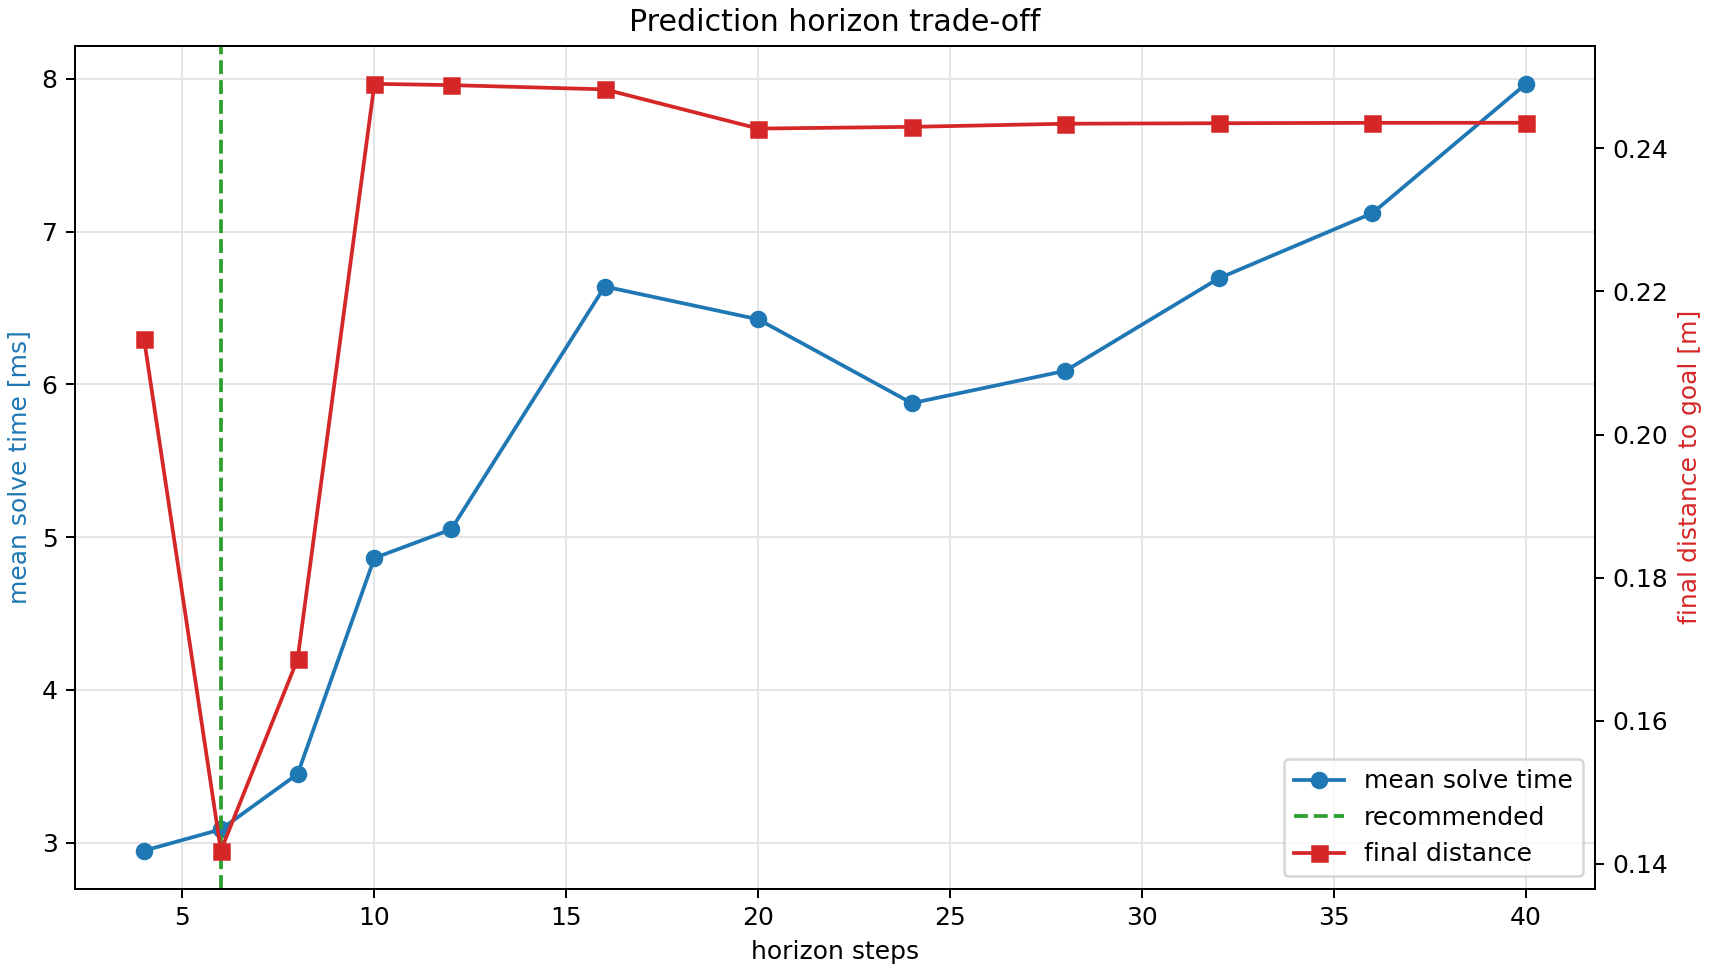
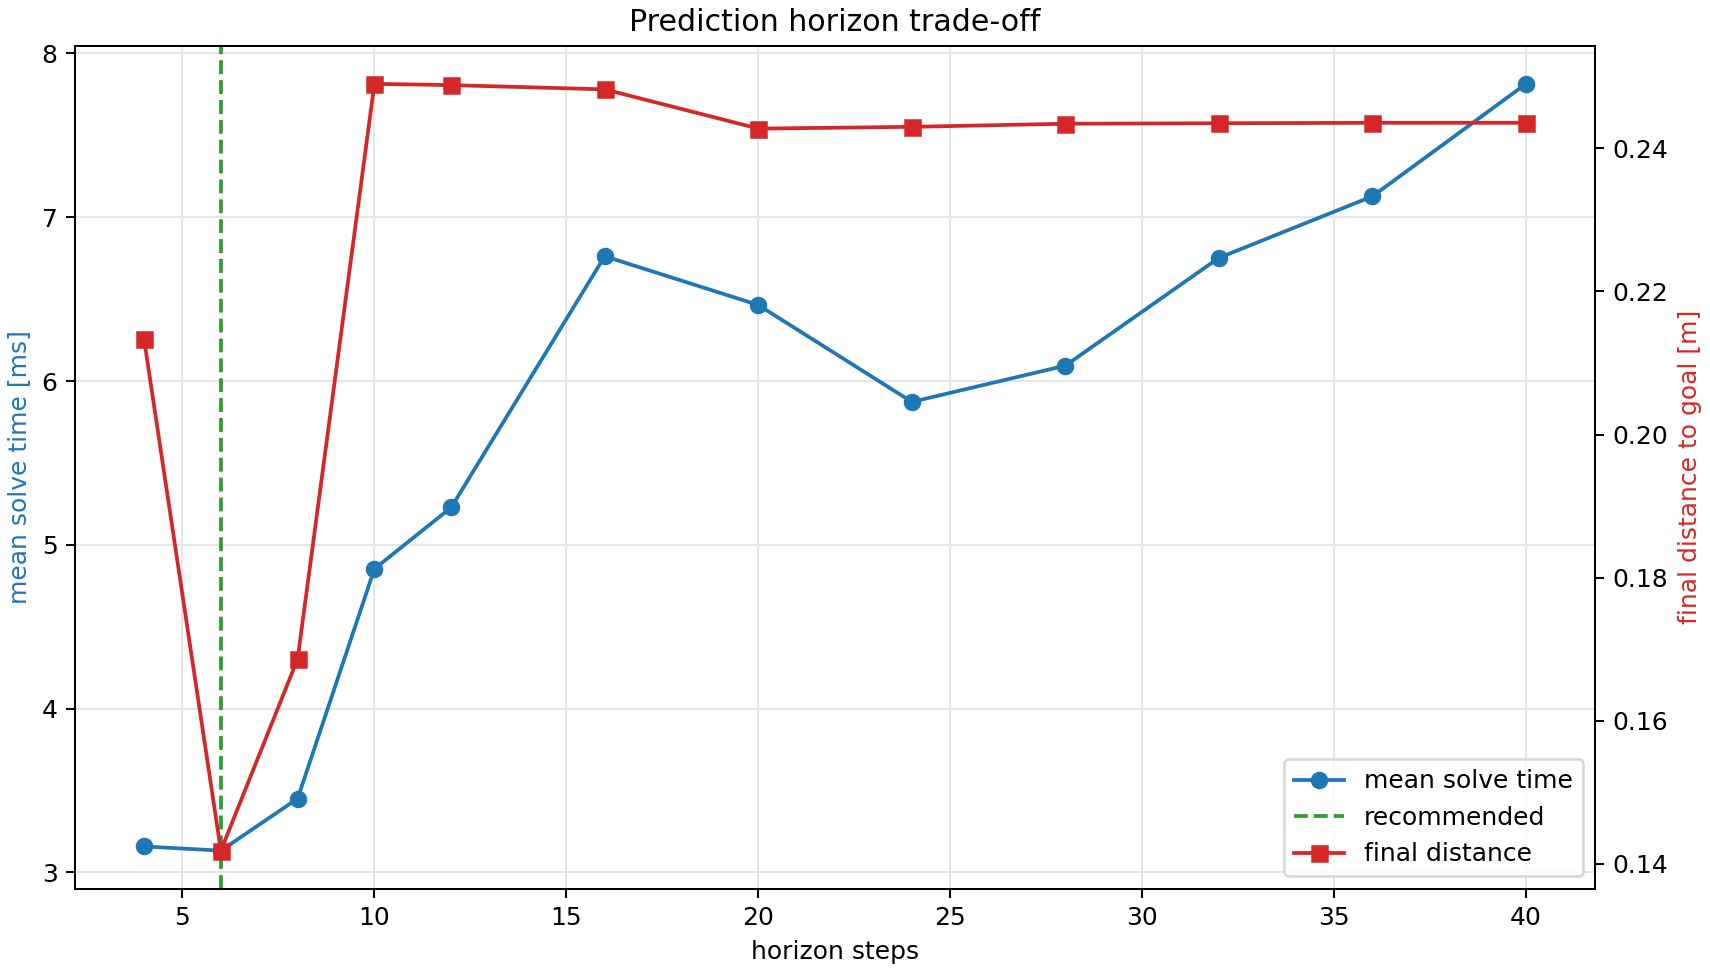
Show animation and benchmark in README

diff --git a/benchmark_results/horizon_benchmark_report.md b/benchmark_results/horizon_benchmark_report.md
@@ -7,18 +7,18 @@ average MPC solve time within `0.03 m` of the best final distance.
 
 | horizon | mean solve ms | total runtime s | final distance m | min safety margin m | steps | failures | reached |
 |---:|---:|---:|---:|---:|---:|---:|:---:|
-| 4 | 2.95 | 0.127 | 0.213 | 0.000000 | 39 | 0 | yes |
-| 6 **best** | 3.09 | 0.126 | 0.142 | 0.000000 | 39 | 0 | yes |
+| 4 | 3.16 | 0.137 | 0.213 | 0.000000 | 39 | 0 | yes |
+| 6 **best** | 3.13 | 0.128 | 0.142 | 0.000000 | 39 | 0 | yes |
 | 8 | 3.45 | 0.138 | 0.169 | 0.000000 | 38 | 0 | yes |
-| 10 | 4.86 | 0.193 | 0.249 | 0.000000 | 38 | 0 | yes |
-| 12 | 5.05 | 0.201 | 0.249 | 0.000000 | 38 | 0 | yes |
-| 16 | 6.64 | 0.264 | 0.248 | 0.000000 | 38 | 0 | yes |
-| 20 | 6.43 | 0.252 | 0.243 | 0.000000 | 37 | 0 | yes |
-| 24 | 5.88 | 0.235 | 0.243 | 0.000000 | 37 | 0 | yes |
+| 10 | 4.85 | 0.192 | 0.249 | 0.000000 | 38 | 0 | yes |
+| 12 | 5.23 | 0.208 | 0.249 | 0.000000 | 38 | 0 | yes |
+| 16 | 6.76 | 0.269 | 0.248 | 0.000000 | 38 | 0 | yes |
+| 20 | 6.46 | 0.254 | 0.243 | 0.000000 | 37 | 0 | yes |
+| 24 | 5.87 | 0.235 | 0.243 | 0.000000 | 37 | 0 | yes |
 | 28 | 6.09 | 0.245 | 0.243 | 0.000000 | 37 | 0 | yes |
-| 32 | 6.69 | 0.271 | 0.244 | 0.000000 | 37 | 0 | yes |
-| 36 | 7.12 | 0.289 | 0.244 | 0.000000 | 37 | 0 | yes |
-| 40 | 7.97 | 0.323 | 0.244 | 0.000000 | 37 | 0 | yes |
+| 32 | 6.75 | 0.273 | 0.244 | 0.000000 | 37 | 0 | yes |
+| 36 | 7.13 | 0.290 | 0.244 | 0.000000 | 37 | 0 | yes |
+| 40 | 7.81 | 0.317 | 0.244 | 0.000000 | 37 | 0 | yes |
 
 Interpretation:
 - Smaller `mean solve ms` means faster online MPC replanning.

diff --git a/README.md b/README.md
@@ -17,6 +17,32 @@ MPC 每一步求解一个有限时域最优控制问题：
 - 对每个圆形障碍物加入距离约束
 - 滚动执行第一个控制量，然后重新规划
 
+
+## 演示效果
+
+![MPC prediction animation](mpc_prediction.gif)
+
+## 预测步 Benchmark 结果
+
+![Prediction horizon benchmark](benchmark_results/horizon_benchmark.png)
+
+推荐预测步：**6**。筛选规则是在安全到达目标且无求解失败的结果中，选择最终距离接近最优值且平均求解时间最短的预测步。
+
+| horizon | mean solve ms | total runtime s | final distance m | min safety margin m | steps | failures | reached |
+|---:|---:|---:|---:|---:|---:|---:|:---:|
+| 4 | 3.16 | 0.137 | 0.213 | 0.000000 | 39 | 0 | yes |
+| 6 **best** | 3.13 | 0.128 | 0.142 | 0.000000 | 39 | 0 | yes |
+| 8 | 3.45 | 0.138 | 0.169 | 0.000000 | 38 | 0 | yes |
+| 10 | 4.85 | 0.192 | 0.249 | 0.000000 | 38 | 0 | yes |
+| 12 | 5.23 | 0.208 | 0.249 | 0.000000 | 38 | 0 | yes |
+| 16 | 6.76 | 0.269 | 0.248 | 0.000000 | 38 | 0 | yes |
+| 20 | 6.46 | 0.254 | 0.243 | 0.000000 | 37 | 0 | yes |
+| 24 | 5.87 | 0.235 | 0.243 | 0.000000 | 37 | 0 | yes |
+| 28 | 6.09 | 0.245 | 0.243 | 0.000000 | 37 | 0 | yes |
+| 32 | 6.75 | 0.273 | 0.244 | 0.000000 | 37 | 0 | yes |
+| 36 | 7.13 | 0.290 | 0.244 | 0.000000 | 37 | 0 | yes |
+| 40 | 7.81 | 0.317 | 0.244 | 0.000000 | 37 | 0 | yes |
+
 ## 安装
 
 推荐创建项目内虚拟环境：
